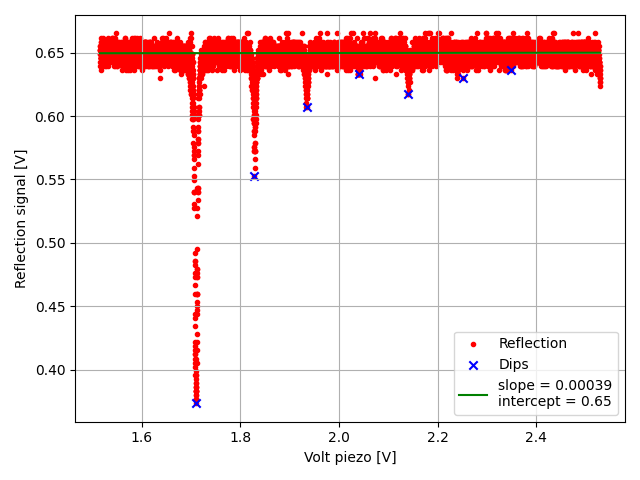
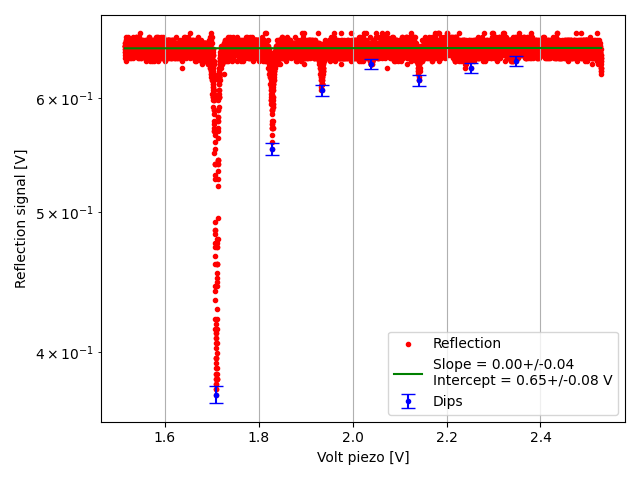
marta's idea for uncertainty estimation

diff --git a/imp_match.py b/imp_match.py
@@ -3,7 +3,9 @@ import functions as fn
 import numpy as np
 import os
 import matplotlib.pyplot as plt
-from scipy.signal import find_peaks, peak_widths, peak_prominences
+from scipy.signal import find_peaks, peak_widths
+from uncertainties import ufloat
+import uncertainties.unumpy as unp
 
 c = 3e8  # speed of light
 R = 50e-3  # curvature radius
@@ -11,19 +13,10 @@ R = 50e-3  # curvature radius
 #####################################################################################################
 # section with file specific values
 
-# if using the bessel file, sets all the correct parameters and removes unnecessary peaks the correct way
-bessel = True
-
-if bessel:
-    title = 'bessel00000'
-    # find_peaks parameters
-    min_prominence = 0.01
-    min_distance = 900
-else:
-    title = 'imp_match00000'
-    # find_peaks parameters
-    min_prominence = 0.035
-    min_distance = 200
+title = 'bessel00000'
+# find_peaks parameters
+min_prominence = 0.01
+min_distance = 900
 
 path = f'data_imp_match/clean_data/{title}.csv'
 figure_path = 'data_imp_match/figures/dips/'
@@ -43,15 +36,11 @@ volt_piezo = data['volt_piezo'].to_numpy()
 dips_indices = find_peaks(-reflection, distance=min_distance,
                           prominence=min_prominence)[0]
 
-if bessel:
-    dips_indices = np.delete(dips_indices, [-1])
-    dips_indices = np.delete(dips_indices, [0])
 
-prominences_tuple = peak_prominences(-reflection, dips_indices)
-prominences = prominences_tuple[0]
+dips_indices = np.delete(dips_indices, [-1])
+dips_indices = np.delete(dips_indices, [0])
 
-widths_ind = peak_widths(-reflection, dips_indices,
-                         rel_height=1, prominence_data=prominences_tuple)[0]
+widths_ind = peak_widths(-reflection, dips_indices, rel_height=1)[0]
 
 piezo_pk = volt_piezo[dips_indices]
 refl_pk = reflection[dips_indices]
@@ -67,92 +56,65 @@ for start, end in ranges_to_remove:
     remove_indices.update(range(start, end))
 
 refl_no_dips = [r for i, r in enumerate(reflection) if i not in remove_indices]
-v_piezo_no_dips = [v for i, v in enumerate(
-    volt_piezo) if i not in remove_indices]
+v_piezo_no_dips = np.array([v for i, v in enumerate(
+    volt_piezo) if i not in remove_indices])
 
-coeffs = np.polyfit(v_piezo_no_dips, refl_no_dips, 1)
+coeffs, V = np.polyfit(v_piezo_no_dips, refl_no_dips, 1, cov='unscaled')
 x = np.linspace(volt_piezo[0], volt_piezo[-1], 100)
 lin = coeffs[0] * x + coeffs[1]
-lin_label = f'slope = {coeffs[0]:.2g}\nintercept = {coeffs[1]:.2g}'
+slope = ufloat(coeffs[0], np.sqrt(V[0, 0]))
+intercept = ufloat(coeffs[1], np.sqrt(V[1 ,1]))
+lin_label = f'Slope = {slope}\nIntercept = {intercept} V'
 
+'''find uncertainty on peak estimate'''
 
-'''compute prominence sum'''
-
-with open(f'data_imp_match/{title}.txt', 'w') as file:
-    if bessel:
-        file.write(f'Sum of depths = {sum(prominences)} V\n\n')
-    else:
-        file.write('Without removing any peak\n')
-        file.write(f'Sum of depths = {sum(prominences)} V\n\n')
-
-        file.write('Consider clear even and odd modes\n')
-        mask = (dips_indices < 7000)
-        dips_indices = dips_indices[mask]
-        prominences = prominences[mask]
-        file.write(f'Sum of depths = {sum(prominences)} V\n\n')
-
-        file.write('Consider only even modes\n')
-        mask = (dips_indices > 2000) & (dips_indices < 7000)
-        dips_indices = dips_indices[mask]
-        prominences = prominences[mask]
-        file.write(f'Sum of depths = {sum(prominences)} V\n\n')
+noise = refl_no_dips - (coeffs[0] * v_piezo_no_dips + coeffs[1])
+pk_uncertainty = np.std(noise)
+d_reflpk = [pk_uncertainty]*len(refl_pk)
 
 '''plot'''
 
 plt.figure()
 plt.scatter(volt_piezo, reflection, label='Reflection',
             color='red', marker='.')
-plt.scatter(piezo_pk, refl_pk, label='Dips',
-            color='blue', marker='x')
+plt.errorbar(piezo_pk, refl_pk, yerr=d_reflpk, label='Dips', ls='',
+             color='blue', marker='.', capsize=5)
 plt.plot(x, lin, label=lin_label, color='green')
 plt.xlabel('Volt piezo [V]')
 plt.ylabel('Reflection signal [V]')
+plt.yscale('log')
 plt.grid()
 plt.legend()
 plt.tight_layout()
 plt.savefig(figure_path + title + '_dips.png')
 
 
-'''another way to compute prominences'''
+'''compute depths'''
 
-prom_2 = coeffs[0] * piezo_pk + coeffs[1] - refl_pk
+refl_pk_unc = unp.uarray(refl_pk, d_reflpk)
 
-if bessel:
-    with open(f'data_imp_match/{title}.txt', 'a') as file:
-        file.write('Alternative calculation of prominence sum:\n\n')
-        file.write(f'Sum of depths = {sum(prom_2)} V')
+# prom_2 = slope * piezo_pk + intercept - refl_pk_unc
 
-prominences = np.flip(prominences, axis=0)
+baseline = ufloat(np.mean(refl_no_dips), pk_uncertainty)
+prom_2 = baseline - refl_pk_unc
+
 prom_2 = np.flip(prom_2, axis=0)
-line_val = np.flip(coeffs[0] * piezo_pk + coeffs[1], axis=0)
-refl_pk = np.flip(refl_pk, axis=0)
+line_val = np.flip(slope * piezo_pk + intercept, axis=0)
+refl_pk_unc = np.flip(refl_pk_unc, axis=0)
 spacing = np.flip(np.diff(piezo_pk))
-end_peaks = refl_pk + prominences
 
 
-print('prominences')
-print(prominences)
-print('line - depth')
-print(prom_2)
-print('line values')
-print(line_val)
-print('line coefficients')
-print(coeffs)
-print('depth values')
-print(refl_pk)
-print('end of peaks')
-print(end_peaks)
-print('spacing')
-print(spacing)
+with open(f'data_imp_match/{title}_baseline.txt', 'w') as file:
+    file.write(f'Sum of depths = {sum(prom_2)} V\n\n')
+    file.write(lin_label)
+    file.write('\n\nDepth of single dips in V:\n')
+    file.write(str(prom_2))
+    file.write('\n\n\"Baseline\" of single dips:\n')
+    # file.write(str(line_val))
+    file.write(str(baseline))
+    file.write('\n\nReflection values at dips:\n')
+    file.write(str(refl_pk_unc))
+    file.write('\n\nSpacings in piezo V:')
+    file.write(str(spacing))
 
-
-bin_centers = range(0, len(prominences))
-
-plt.figure()
-plt.bar(bin_centers, prom_2, width=1, edgecolor='black', alpha=0.7)
-plt.xlabel('Peak index')
-plt.ylabel('Reflection dip [V]')
-plt.grid()
-plt.tight_layout()
-plt.savefig(figure_path + title + '_histogram.png')
 plt.show()
